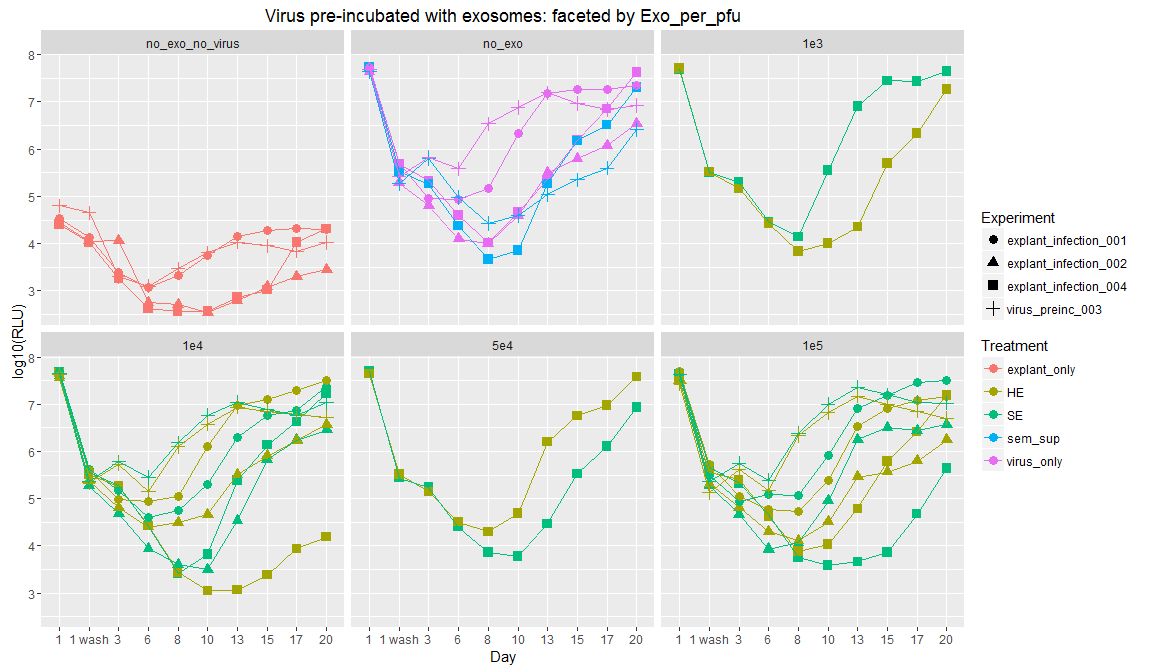
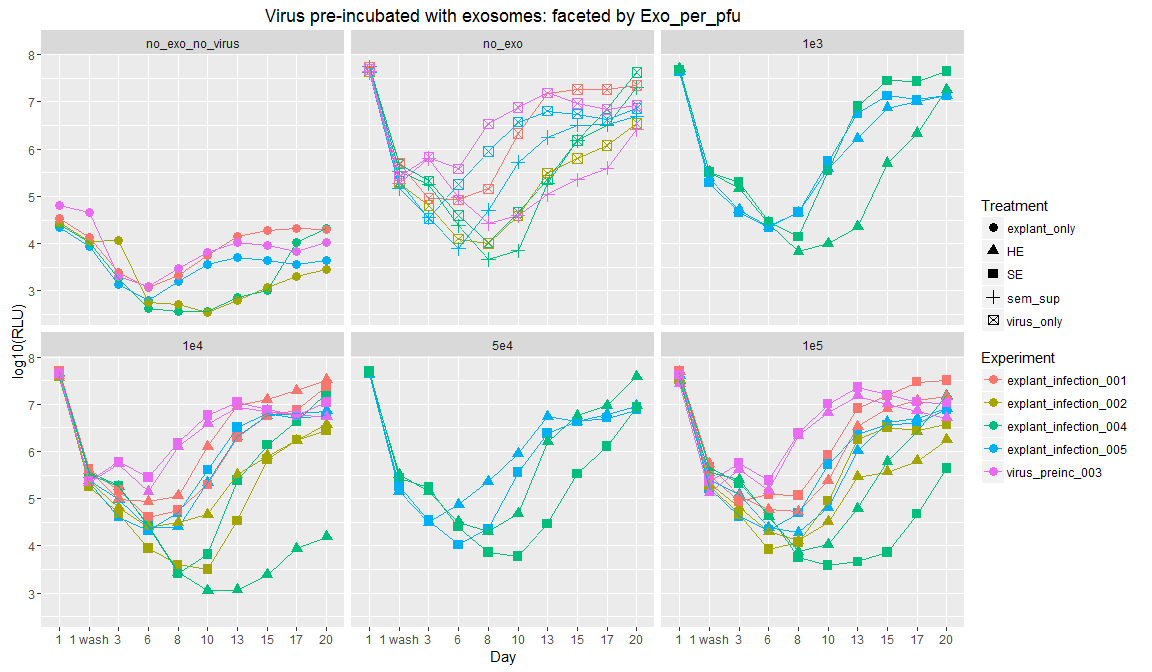
added infection 005 data and updated compilation

diff --git a/explant_infection_experiment_analysis.md b/explant_infection_experiment_analysis.md
@@ -69,6 +69,21 @@ Explant Infection 004:
 
 ![](explant_infection_experiment_analysis_files/figure-markdown_github/infection004-1.png)
 
+Explant Infection 005:
+======================
+
+-   Concentrations: 1E5,1E4, 1E3 and 5E4 exosomes per pfu, 1:50 seminal sup.
+
+-   Exosomes used: SE and HE
+
+-   Only did virus (vNL\_sNLuc.6ATRi.B.Bal.ecto) and exosome/sup preincubation (no exos + explant preinc)
+
+PROTOCOL DEVIATIONS:
+
+-   During virus wash off I skipped a well so conditions 8-11 were off by one on the spin plate. I abandoned those pellets since they got mixed up and started using a new set of wells for the washes for those conditions.
+
+![](explant_infection_experiment_analysis_files/figure-markdown_github/infection005-1.png)
+
 Compilations of results from multiple experiments arranged in a variety of ways:
 
 ![](explant_infection_experiment_analysis_files/figure-markdown_github/compilation%20plots-1.png)![](explant_infection_experiment_analysis_files/figure-markdown_github/compilation%20plots-2.png)
